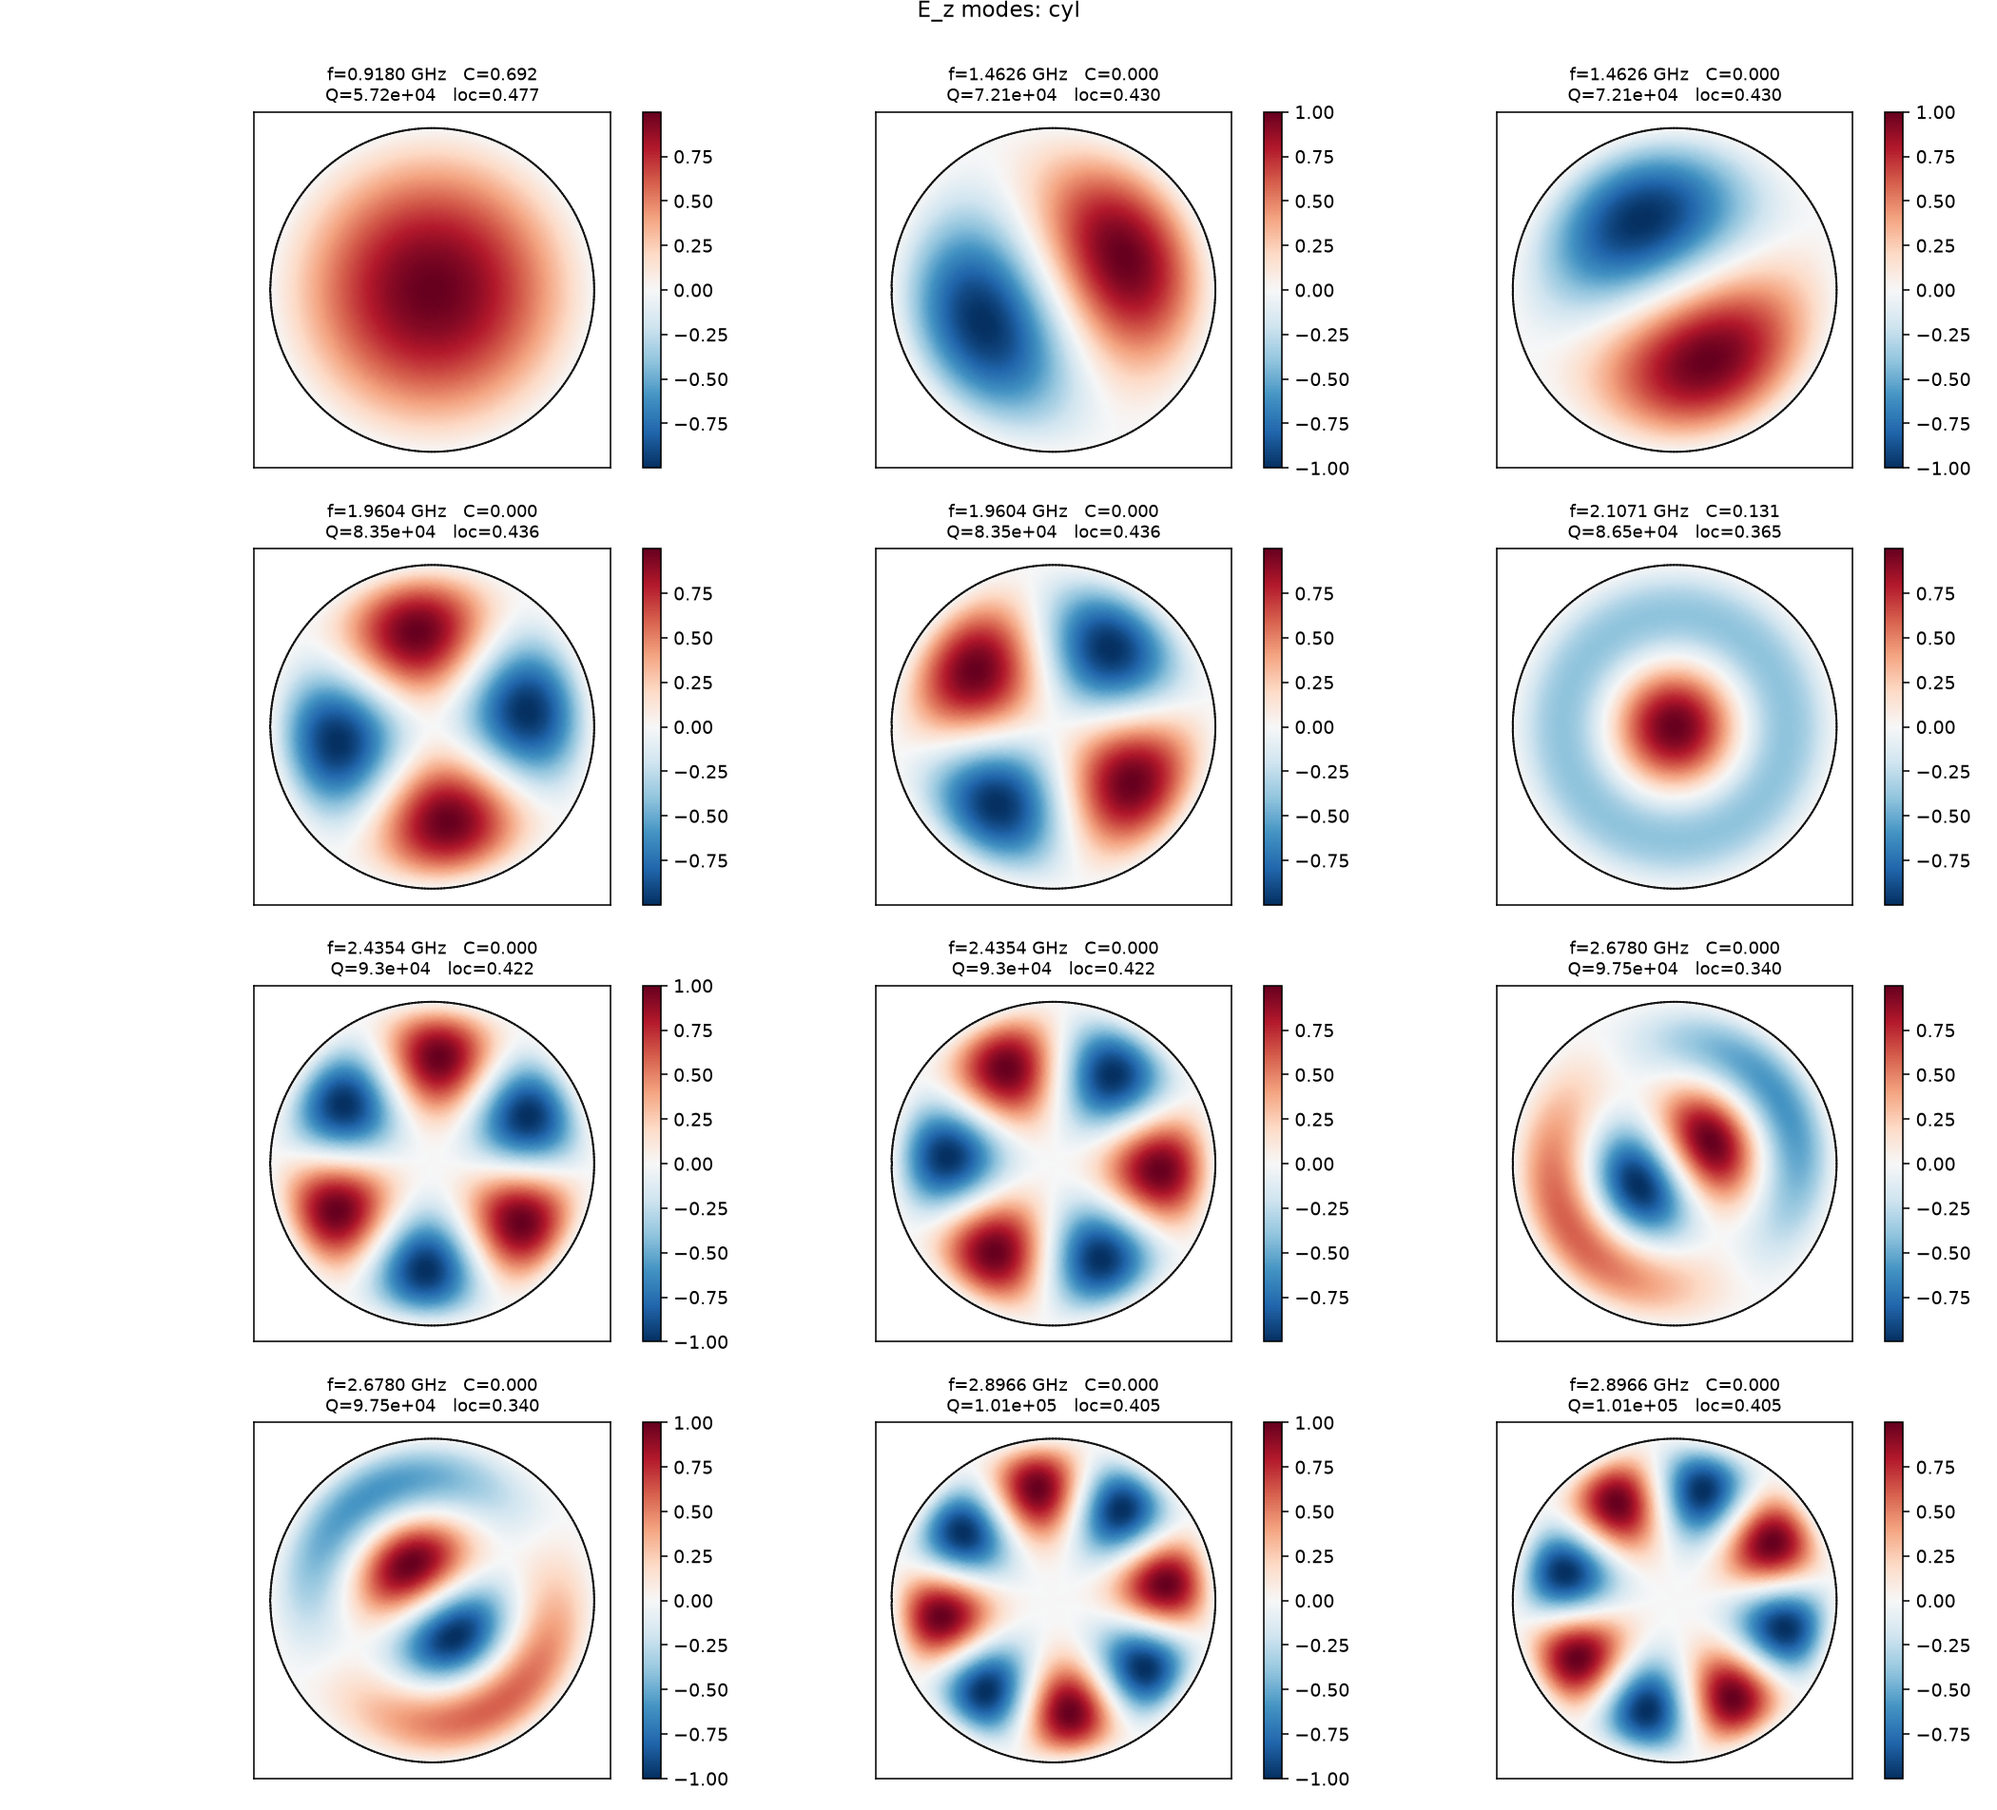
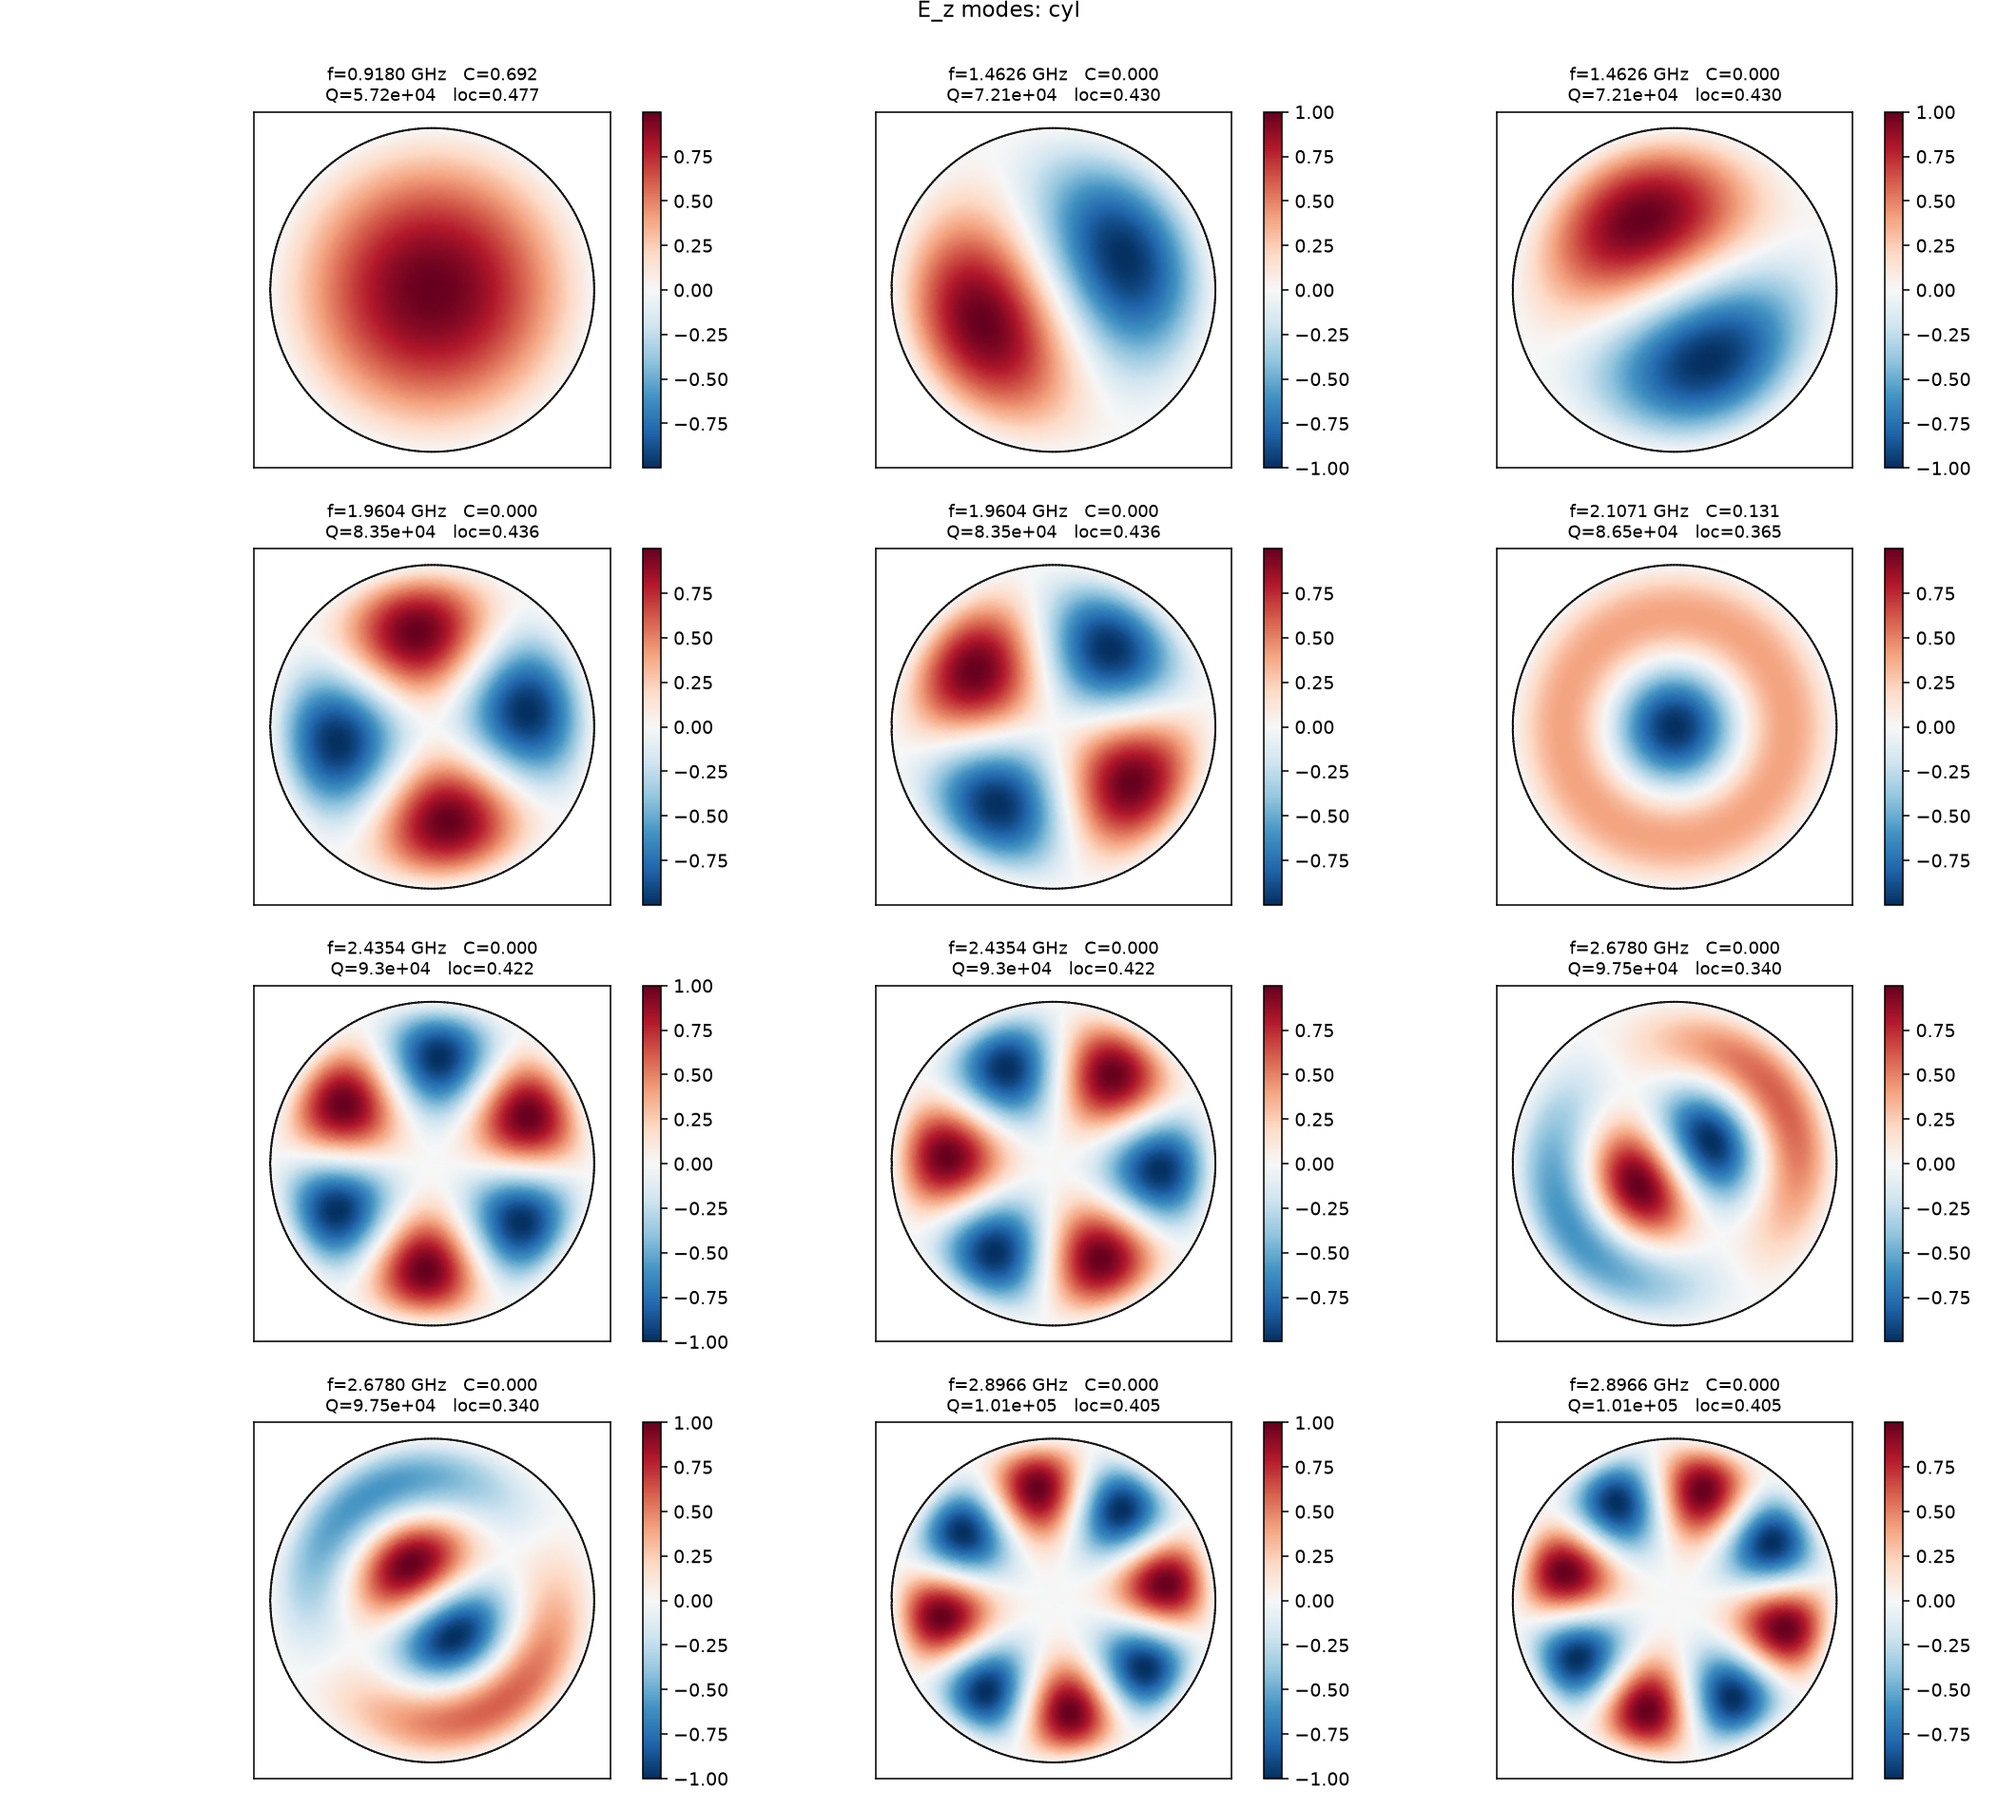
fixed readme, added validation of half-pipe

diff --git a/scripts/fem_solve.py b/scripts/fem_solve.py
@@ -256,6 +256,82 @@ class CylSpec:
         R = self.radius
         return (cx - R, cy - R, cx + R, cy + R)
 
+@dataclass
+class HalfPipeSpec:
+    """
+    Half-disk cross-section (an infinite half-cylinder in 2D): the disk of `radius`
+    about `center`, cut along the diameter y = cy. Interface-compatible with
+    CavitySpec, so solve_cavity / run_batch / plot_mesh take it unchanged.
+ 
+    upper : True keeps y >= cy, False keeps y <= cy (a trough). The flat face is a
+        conducting wall either way, so it joins the "wall" boundary group.
+ 
+    Also a clean validation case: with PEC on both the arc and the diameter the
+    modes are exactly the sin(m theta) branch of the full disk,
+ 
+        f_mn = c * j_{m,n} / (2 pi R),   m >= 1, and NON-degenerate
+ 
+    -- the cos branch is killed by E_z = 0 on the diameter, which is why CylSpec's
+    doublets collapse to single modes here. See halfpipe_analytic().
+ 
+    radius : metres.
+    metal / dielectric : optional Rect inclusions, exactly as in CavitySpec.
+    """
+    radius: float
+    center: tuple = (0.0, 0.0)
+    upper: bool = True
+    metal: list = field(default_factory=list)
+    dielectric: list = field(default_factory=list)
+    background: Material = field(default_factory=lambda: Material("vacuum"))
+    wall_material: Material = field(default_factory=lambda: Material("cu"))
+    metal_material: Material = field(default_factory=lambda: Material("cu"))
+    mesh_size: float = 0.004
+    mesh_size_min: float | None = None
+    mesh_uniform: bool = False
+    tag: str = ""
+ 
+    def add_outer(self, occ):
+        """
+        Must return a SURFACE tag -- build_mesh does dom = [(2, outer)].
+ 
+        Build the disk, then cut away the unwanted half with an oversized
+        rectangle. The cutter extends 1.5R past the disk in x so the shapes
+        properly overlap rather than meeting tangentially at a corner, and tags are
+        left for gmsh to assign rather than hardcoded (hardcoded tags collide with
+        the metal rectangles added afterwards).
+        """
+        cx, cy = self.center
+        R = self.radius
+        disk = occ.addDisk(cx, cy, 0.0, R, R)
+        y0 = (cy - 1.5 * R) if self.upper else cy      # the half to REMOVE
+        cutter = occ.addRectangle(cx - 1.5 * R, y0, 0.0, 3.0 * R, 1.5 * R)
+        out, _ = occ.cut([(2, disk)], [(2, cutter)],
+                         removeObject=True, removeTool=True)
+        surfs = [t for (d, t) in out if d == 2]
+        if len(surfs) != 1:
+            raise ValueError(f"half-pipe cut produced {len(surfs)} surfaces, "
+                             f"expected 1 (radius={R}, center={self.center})")
+        return surfs[0]
+ 
+    def on_wall(self, pts):
+        """The boundary is the arc PLUS the flat diameter; both are conducting."""
+        cx, cy = self.center
+        x, y = pts[:, 0], pts[:, 1]
+        r = np.hypot(x - cx, y - cy)
+        tol = _BBOX_TOL + 1e-6 * self.radius
+        on_arc = np.all(np.abs(r - self.radius) < tol)
+        # flat face: on the line y = cy AND inside the disk, so an interior metal
+        # edge that happens to sit at y = cy is not swept up as outer wall
+        on_flat = (np.all(np.abs(y - cy) < tol) and
+                   np.all(r <= self.radius + tol))
+        return bool(on_arc or on_flat)
+ 
+    @property
+    def extent(self):
+        cx, cy = self.center
+        R = self.radius
+        return ((cx - R, cy, cx + R, cy + R) if self.upper
+                else (cx - R, cy - R, cx + R, cy))
 
 # ─────────────────────────────────────────────────────────────────────────────
 # geometry + mesh

diff --git a/validate.py b/validate.py
@@ -3,6 +3,7 @@ from scripts import fem_vis as viz
 import matplotlib.pyplot as plt
 import numpy as np
 import scipy
+import time
 
 C = 3e8 # speed of light in m/s
 
@@ -47,6 +48,8 @@ def get_degeneracies_cyl(mn_list, modes_list, num_modes):
     return degeneracies[:num_modes], degen_modes[:num_modes]
 
 # test solver on rectangular configuration
+t0 = time.perf_counter()
+print('validating on rectangular configuration...')
 rect_spec = viz.rect_spec(width=0.25, height=0.5, mesh_size=0.005) # dimensions in meters
 viz.plot_spec(rect_spec, title="Rectangular Specimen", save="test_results/test_rect_spec.png")
 viz.plot_mesh(rect_spec, title="Rectangular Specimen Mesh", save="test_results/test_rect_mesh.png")
@@ -73,6 +76,9 @@ ax[1,1].contourf(X, Y, np.sin(lowest_mn[4][0] * np.pi * (X-0.125) / 0.25) * np.s
 ax[1,2].contourf(X, Y, np.sin(lowest_mn[5][0] * np.pi * (X-0.125) / 0.25) * np.sin(lowest_mn[5][1] * np.pi * (Y-0.25) / 0.5), cmap="RdBu_r", levels=30) # TM_13
 plt.tight_layout()
 plt.savefig("test_results/test_rect_modes_ground_truth.png", dpi=140); plt.close(fig)
+
+print(f'finished validation on rectangular config in {time.perf_counter()-t0} seconds')
+print('starting validation on cylindrical config...')
 
 # test solver on cylindrical configuration
 cyl_spec = viz.cyl_spec(radius=0.125, mesh_size=0.0025) # dimensions in meters
@@ -110,3 +116,18 @@ for i in range(12):
 
 plt.tight_layout()
 plt.savefig("test_results/test_cyl_modes_ground_truth.png", dpi=140); plt.close(fig1)
+
+print(f'finished validation on cylindrical config in {time.perf_counter()-t0} seconds')
+print('starting validation on half-pipe config...')
+
+# validate against metallic half-pipe
+
+half_pipe_spec = viz.half_pipe_spec(0.1)
+viz.plot_spec(half_pipe_spec, title="Half-pipe Specimen", save="test_results/test_half_spec.png")
+viz.plot_mesh(half_pipe_spec, title="Half-pipe Specimen Mesh", save="test_results/test_half_mesh.png")
+
+out_half = fem.solve_cavity(half_pipe_spec, keep_fields=True)
+#print('freqs:', np.array(out_half['freqs']))
+#print('modes:', np.array(out_half['modes']))
+print(f'finished validation on half-pipe config in {time.perf_counter()-t0} seconds.')
+viz.plot_modes(half_pipe_spec, out_half, save="test_results/test_half_modes.png")

diff --git a/scripts/fem_vis.py b/scripts/fem_vis.py
@@ -23,7 +23,7 @@ import numpy as np
 import matplotlib
 matplotlib.use("Agg")           # safe on headless machines; remove for interactive
 import matplotlib.pyplot as plt
-from matplotlib.patches import Rectangle as MplRect
+from matplotlib.patches import Circle as MplCircle, Rectangle as MplRect, Wedge as MplWedge
 
 from . import fem_solve as cv
 
@@ -57,8 +57,13 @@ def plot_spec(spec, ax=None, save=None, annotate=True, show_centers=True,
     if created:
         fig, ax = plt.subplots(figsize=(9, 6))
  
-    if hasattr(spec, "radius"):                     # CylSpec
-        from matplotlib.patches import Circle as MplCircle
+    if isinstance(spec, cv.HalfPipeSpec):
+        cx, cy = spec.center
+        ax.add_patch(MplWedge((cx * MM, cy * MM), spec.radius * MM,
+                              theta1=0.0, theta2=180.0,
+                              facecolor="#eaf3fb", edgecolor="#1f4e79",
+                              lw=2.0, zorder=0))
+    elif isinstance(spec, cv.CylSpec):
         cx, cy = spec.center
         ax.add_patch(MplCircle((cx * MM, cy * MM), spec.radius * MM,
                                facecolor="#eaf3fb", edgecolor="#1f4e79",
@@ -521,5 +526,16 @@ def cyl_spec(radius, tag="cyl", mesh_size=0.001, wall_material=None):
     if wall_material is not None:
         kw["wall_material"] = cv.Material("aluminium", sigma=cv.SIGMA_AL_COMSOL)
     return cv.CylSpec(
+        center=(0.0, 0.0), radius=radius, metal=[], mesh_size=mesh_size,
+        tag=tag, **kw)
+
+def half_pipe_spec(radius, tag="half pipe", mesh_size=0.001, wall_material=None):
+    """
+    Build a simple half-pipe cavity spec with no internal features.
+    """
+    kw = {}
+    if wall_material is not None:
+        kw["wall_material"] = cv.Material("aluminium", sigma=cv.SIGMA_AL_COMSOL)
+    return cv.HalfPipeSpec(
         center=(0.0, 0.0), radius=radius, metal=[], mesh_size=mesh_size,
         tag=tag, **kw)

diff --git a/optimize.py b/optimize.py
@@ -39,16 +39,15 @@ if __name__ == "__main__":
     #rounded_params = np.array([0, 128.69, 4.6586, 10, 6.9514, 6.734, 124.87, 123.77])
     
     n_walkers = 8
-    seeds = generate_seeds(n_walkers)
-    seeds.append([0, 125, 5, 10, 6, 6, 125, 125])
-    seeds.append([0, 150, 5, 10, 6, 6, 150, 150])
-    print(seeds)
-    best_params, best_value, chains_params, chains_values=mcmc.mcmc_minimize(
-        seeds, save_path=PATH, steps=1200, n_walkers=n_walkers+2, tuning_steps=TUNING_STEPS, proposal_std=0.1
-    )
+    #seeds = generate_seeds(n_walkers)
+    #seeds.append([0, 125, 5, 10, 6, 6, 125, 125])
+    #seeds.append([0, 150, 5, 10, 6, 6, 150, 150])
+    #print(seeds)
+    #best_params, best_value, chains_params, chains_values=mcmc.mcmc_minimize(
+    #    seeds, save_path=PATH, steps=1200, n_walkers=n_walkers+2, tuning_steps=TUNING_STEPS, proposal_std=0.1)
 
-    #best_params, best_value, chains_params, chains_values = mcmc.continue_mcmc(
-    #    steps=958, save_path=PATH, n_walkers=n_walkers+2, tuning_steps=TUNING_STEPS, proposal_std=0.1
-    #)
+    best_params, best_value, chains_params, chains_values = mcmc.continue_mcmc(
+        steps=892, save_path=PATH, n_walkers=n_walkers+2, tuning_steps=TUNING_STEPS, proposal_std=0.1
+    )
 
     #print(best_params, best_value)

diff --git a/README.md b/README.md
@@ -4,20 +4,22 @@ Custom-built FEM solver for cavity simulations, and MCMC + simulated annealing f
 
 # Scalar problem
 
-For propagation of EM waves in a hollow waveguide or cavity in the $z$-direction, it can be shown that (Eq. 8.24) in Jackson
+For propagation of EM waves in a hollow waveguide or cavity in the $z$-direction, it can be shown that (Eq. 8.24 in Jackson)
 
-$$\mathbf{B}_\perp=\frac{1}{\mu_0\varepsilon_0\frac{\omega^2}{c^2}-k^2}\left[\nabla_\perp\left(\frac{\partial B_z}{\partial z}\right)+i\mu_0\varepsilon_0\frac{\omega}{c}\hat{\mathbf{z}}\times\nabla_\perp E_z\right]$$
+$$\mathbf{B}_\perp=\frac{1}{\mu\varepsilon\frac{\omega^2}{c^2}-k^2}\left[\nabla_\perp\left(\frac{\partial B_z}{\partial z}\right)+i\mu\varepsilon\frac{\omega}{c}\hat{\mathbf{z}}\times\nabla_\perp E_z\right]$$
 
 and
 
-$$\mathbf{E}_\perp=\frac1{\mu_0\varepsilon_0\frac{\omega^2}{c^2}-k^2}\left[\nabla_\perp\left(\frac{\partial E_z}{\partial z}\right)-i\frac{\omega}{c}\hat{\mathbf{z}}\times\nabla_\perp B_z\right]$$
+$$\mathbf{E}_\perp=\frac1{\mu\varepsilon\frac{\omega^2}{c^2}-k^2}\left[\nabla_\perp\left(\frac{\partial E_z}{\partial z}\right)-i\frac{\omega}{c}\hat{\mathbf{z}}\times\nabla_\perp B_z\right]$$
 
 i.e. the transverse components of the electric and magnetic fields depend only on the $z$-components of the electric and magnetic fields. For TM waves, we also have the boundary conditions $E_z\equiv0$ on the surface and $B_z\equiv0$ everywhere. The above equations therefore reduce to
 
-$$\mathbf{B}_\perp=\frac{\mu_0\varepsilon_0\omega}{ck}\hat{\mathbf{z}}\times\mathbf{E}_\perp$$
+$$\mathbf{B}_\perp=\frac{\mu\varepsilon\omega}{ck}\hat{\mathbf{z}}\times\mathbf{E}_\perp$$
 
 and
 
 $$\mathbf{E}_\perp=\frac{ik}{\gamma^2}\nabla_\perp\psi$$
 
-where $\psi=E_z$ and $\gamma^2=\mu_0\varepsilon_0\frac{\omega^2}{c^2}-k^2.$ Thus, this reduces the 3D wave equation to an appropriate scalar problem.
+where $\psi=E_z$ and $\gamma^2=\mu\varepsilon\frac{\omega^2}{c^2}-k^2.$ Thus, this reduces the 3D wave equation to an appropriate scalar problem, since $\psi$ satisfies the equation
+
+$$(\nabla_\perp^2+\gamma^2)\psi=0.$$
